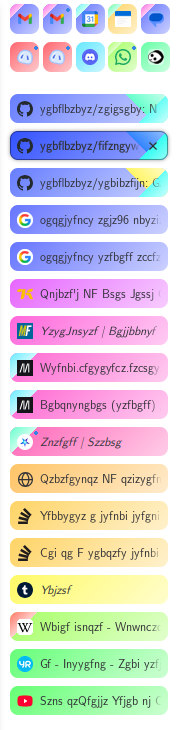
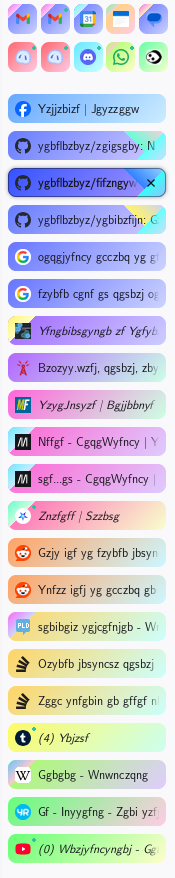
Use two hues instead of one for each gradient, to distinguish between close strings better. Also use all available hues for github overlays. Updated readme.

diff --git a/firehacks.js b/firehacks.js
@@ -75,12 +75,18 @@ function applyFirehacks(window){
     // Inspired by ChromaTabs and TST Colored Tabs
     // Additional overlays for subdomains, and first two path elements on GitHub
     
-    tabcontainer._firehacks_getHue = async function(toHash, num = numHues, offset = hueOffset) {
-        let part = toHash.length > 3 ? toHash.substring(0, 3) : toHash;
-        part = part.toLowerCase().replace(/[^0-9a-z]/g, "0");
-        let hash = parseInt(part, 36) % 33325; // mod aaa - zzz range only; numbers seldom appear
-        let hue = Math.round(360 / num) * Math.round(hash * num / 33325);
-        return hue + offset;
+    tabcontainer._firehacks_getHues = async function(toHash, num = numHues, offset = hueOffset) {
+        toHash = toHash.toLowerCase().replace(/[^0-9a-z]/g, "0") + "000000"; // right-pad to ensure length >= 6
+        let parts = [toHash.substring(0, 3), toHash.substring(3, 6)];
+        let hues = [];
+
+        for (const part of parts) {
+            let hash = parseInt(part, 36) % 33325; // mod aaa - zzz range only; numbers seldom appear
+            let hue = Math.round(360 / num) * Math.round(hash * num / 33325);
+            hues.push(hue + offset);
+        }
+
+        return hues;
     }
 
     tabcontainer._firehacks_setHueFromUrl = async function(event) {
@@ -107,15 +113,18 @@ function applyFirehacks(window){
         };
         
         let bgStyle = tab.querySelector(".tab-background").style;
-        let hue = await this._firehacks_getHue(toHash);
-        bgStyle.setProperty("--firehacks-hue", `${hue}deg`);
+        let [hue_from, hue_to] = await this._firehacks_getHues(toHash);
+        bgStyle.setProperty("--firehacks-hue-from", `${hue_from}deg`);
+        bgStyle.setProperty("--firehacks-hue-to", `${hue_to}deg`);
         
         if (toHashSubdomain) {
-            let subdomainHue = await this._firehacks_getHue(toHashSubdomain);
-            bgStyle.setProperty("--firehacks-subdomain-hue", `${subdomainHue}deg`);
+            let [subdomainHue_from, subdomainHue_to] = await this._firehacks_getHues(toHashSubdomain);
+            bgStyle.setProperty("--firehacks-subdomain-hue-from", `${subdomainHue_from}deg`);
+            bgStyle.setProperty("--firehacks-subdomain-hue-to", `${subdomainHue_to}deg`);
             bgStyle.setProperty("--firehacks-subdomain-alpha", "100%");
         } else {
-            bgStyle.removeProperty("--firehacks-subdomain-hue");
+            bgStyle.removeProperty("--firehacks-subdomain-hue-from");
+            bgStyle.removeProperty("--firehacks-subdomain-hue-to");
             bgStyle.removeProperty("--firehacks-subdomain-alpha");
         }
         
@@ -126,19 +135,23 @@ function applyFirehacks(window){
             [ghOne, ghTwo] = ghMatch.slice(1);
         }
         if (ghOne) {
-            let ghHueOne = await this._firehacks_getHue(ghOne, 45);
-            bgStyle.setProperty("--firehacks-github-hue-one", `${ghHueOne}deg`);
+            let [ghHueOne_from, ghHueOne_to] = await this._firehacks_getHues(ghOne);
+            bgStyle.setProperty("--firehacks-github-hue-one-from", `${ghHueOne_from}deg`);
+            bgStyle.setProperty("--firehacks-github-hue-one-to", `${ghHueOne_to}deg`);
             bgStyle.setProperty("--firehacks-github-alpha-one", "100%");
         } else {
-            bgStyle.removeProperty("--firehacks-github-hue-one");
+            bgStyle.removeProperty("--firehacks-github-hue-one-from");
+            bgStyle.removeProperty("--firehacks-github-hue-one-to");
             bgStyle.removeProperty("--firehacks-github-alpha-one");
         }
         if (ghTwo) {
-            let ghHueTwo = await this._firehacks_getHue(ghTwo, 45);
-            bgStyle.setProperty("--firehacks-github-hue-two", `${ghHueTwo}deg`);
+            let [ghHueTwo_from, ghHueTwo_to] = await this._firehacks_getHues(ghTwo);
+            bgStyle.setProperty("--firehacks-github-hue-two-from", `${ghHueTwo_from}deg`);
+            bgStyle.setProperty("--firehacks-github-hue-two-to", `${ghHueTwo_to}deg`);
             bgStyle.setProperty("--firehacks-github-alpha-two", "100%");
         } else {
-            bgStyle.removeProperty("--firehacks-github-hue-two");
+            bgStyle.removeProperty("--firehacks-github-hue-two-from");
+            bgStyle.removeProperty("--firehacks-github-hue-two-to");
             bgStyle.removeProperty("--firehacks-github-alpha-two");
         }
     }

diff --git a/tabColour.css b/tabColour.css
@@ -2,7 +2,8 @@
 
 tab .tab-background {
   /* This is overriden per element by the JS */
-  --firehacks-hue: 0deg;
+  --firehacks-hue-from: 0deg;
+  --firehacks-hue-to: 0deg;
   /* This never changes */
   --firehacks-saturation: 100%;
   /* These are adjusted for selected/hover tabs */
@@ -10,15 +11,18 @@ tab .tab-background {
   --firehacks-lightness-to: 90%;
   
   /* These are used for subdomain highlights */
-  --firehacks-subdomain-hue: 0deg;
+  --firehacks-subdomain-hue-from: 0deg;
+  --firehacks-subdomain-hue-to: 0deg;
   --firehacks-subdomain-alpha: 0%;
   --firehacks-subdomain-stop: 20px;
   
   /* These are used for highlights for the first two GitHub path elements
    * (Usually user/org and repo)
    */
-  --firehacks-github-hue-one: 0deg;
-  --firehacks-github-hue-two: 0deg;
+  --firehacks-github-hue-one-from: 0deg;
+  --firehacks-github-hue-one-to: 0deg;
+  --firehacks-github-hue-two-from: 0deg;
+  --firehacks-github-hue-two-to: 0deg;
   --firehacks-github-alpha-one: 0%;
   --firehacks-github-alpha-two: 0%;
   
@@ -33,21 +37,21 @@ tab .tab-background {
    * 1. Main domain colour
    */
   background: linear-gradient(315deg,
-    hsl(var(--firehacks-github-hue-one) var(--firehacks-saturation) var(--firehacks-lightness-to) / var(--firehacks-github-alpha-one)),
-    hsl(var(--firehacks-github-hue-one) var(--firehacks-saturation) var(--firehacks-lightness-from) / var(--firehacks-github-alpha-one)) var(--firehacks-github-stop-one),
+    hsl(var(--firehacks-github-hue-one-to) var(--firehacks-saturation) var(--firehacks-lightness-to) / var(--firehacks-github-alpha-one)),
+    hsl(var(--firehacks-github-hue-one-from) var(--firehacks-saturation) var(--firehacks-lightness-from) / var(--firehacks-github-alpha-one)) var(--firehacks-github-stop-one),
     transparent var(--firehacks-github-stop-one) 100%
   ), linear-gradient(225deg,
-    hsl(var(--firehacks-github-hue-two) var(--firehacks-saturation) var(--firehacks-lightness-to) / var(--firehacks-github-alpha-two)),
-    hsl(var(--firehacks-github-hue-two) var(--firehacks-saturation) var(--firehacks-lightness-from) / var(--firehacks-github-alpha-two)) var(--firehacks-github-stop-two),
+    hsl(var(--firehacks-github-hue-two-to) var(--firehacks-saturation) var(--firehacks-lightness-to) / var(--firehacks-github-alpha-two)),
+    hsl(var(--firehacks-github-hue-two-from) var(--firehacks-saturation) var(--firehacks-lightness-from) / var(--firehacks-github-alpha-two)) var(--firehacks-github-stop-two),
     transparent var(--firehacks-github-stop-two) 100%
   ), linear-gradient(135deg,
-    hsl(var(--firehacks-subdomain-hue) var(--firehacks-saturation) var(--firehacks-lightness-from) / var(--firehacks-subdomain-alpha)),
-    hsl(var(--firehacks-subdomain-hue) var(--firehacks-saturation) var(--firehacks-lightness-to) / var(--firehacks-subdomain-alpha)) var(--firehacks-subdomain-stop),
+    hsl(var(--firehacks-subdomain-hue-from) var(--firehacks-saturation) var(--firehacks-lightness-from) / var(--firehacks-subdomain-alpha)),
+    hsl(var(--firehacks-subdomain-hue-to) var(--firehacks-saturation) var(--firehacks-lightness-to) / var(--firehacks-subdomain-alpha)) var(--firehacks-subdomain-stop),
     transparent var(--firehacks-subdomain-stop) 100%
   ),
   linear-gradient(135deg,
-    hsl(var(--firehacks-hue) var(--firehacks-saturation) var(--firehacks-lightness-from)),
-    hsl(var(--firehacks-hue) var(--firehacks-saturation) var(--firehacks-lightness-to))
+    hsl(var(--firehacks-hue-from) var(--firehacks-saturation) var(--firehacks-lightness-from)),
+    hsl(var(--firehacks-hue-to) var(--firehacks-saturation) var(--firehacks-lightness-to))
   ) !important;
 }
 

diff --git a/README.md b/README.md
@@ -21,11 +21,12 @@ This is my personal set of tweaks, which I intend to maintain only for the lates
 * Tab backgrounds are coloured by base domain, with an overlaid second colour for subdomains (or by scheme if there is no domain). `www.` is stripped off.
 * GitHub tabs are overlaid with colours for the first two path elements (usually account and repository).
 * Clicking once in the URL bar or search bar never selects the contents.
-* The search term is cleared from the search bar after the search is performed.
+* **Additional search bar features currently implemented only for OLD search widget (the one with the search engine icons underneath), which (for now) you can still switch back to:**
+    * The search term is cleared from the search bar after the search is performed.
     * Focus is also always restored to the current tab.
-* Searches performed from the search bar that load in new tabs always load in background tabs and never switch focus away from the currently selected tab.
-    * This does not affect the search being opened in the current tab when it is blank, or searches from the URL bar opening in the current tab.
-    * Context menu searches still switch focus to the new tab; I never use this feature, but maybe I'll fix it anyway for consistency.
+    * Searches performed from the search bar that load in new tabs always load in background tabs and never switch focus away from the currently selected tab.
+        * This does not affect the search being opened in the current tab when it is blank, or searches from the URL bar opening in the current tab.
+        * Context menu searches still switch focus to the new tab; I never use this feature, but maybe I'll fix it anyway for consistency.
 * Unread tabs have an `unread` attribute again and can be styled.
     * Tabs restored from a previous session start off as unread; you can exclude them with a different attribute.
 * Tab styles for unread, selected, and hover.
